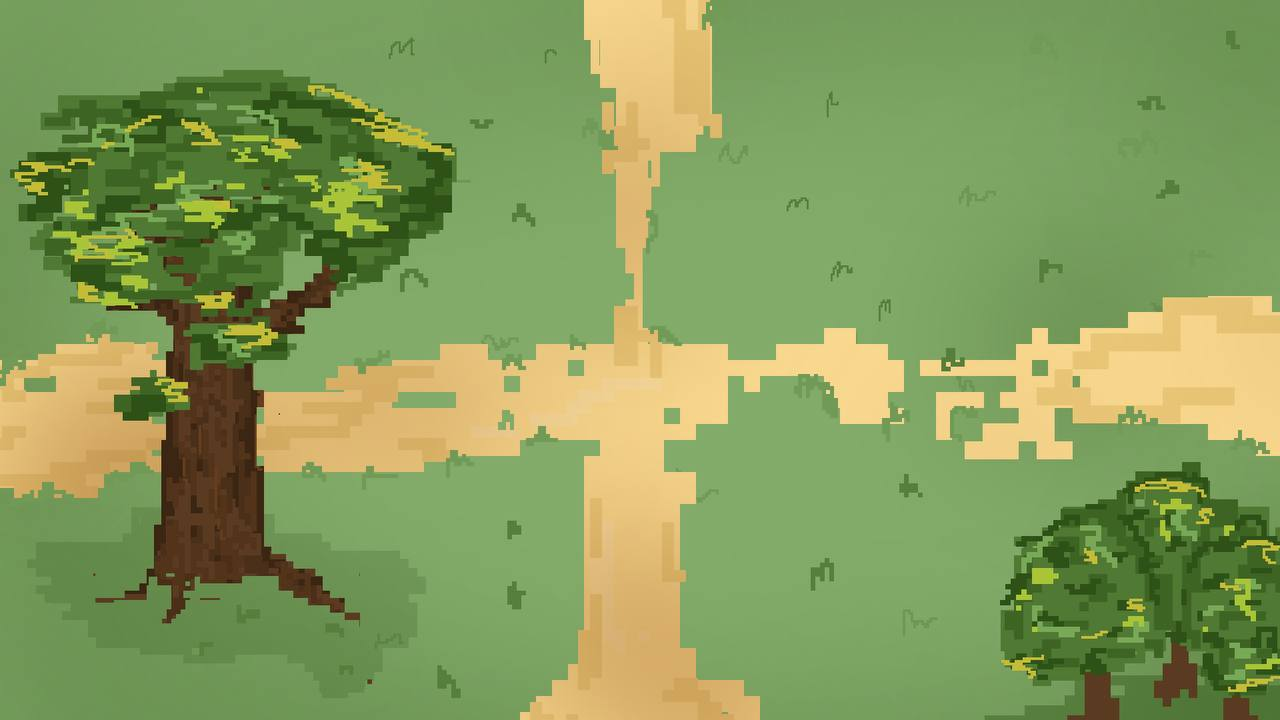
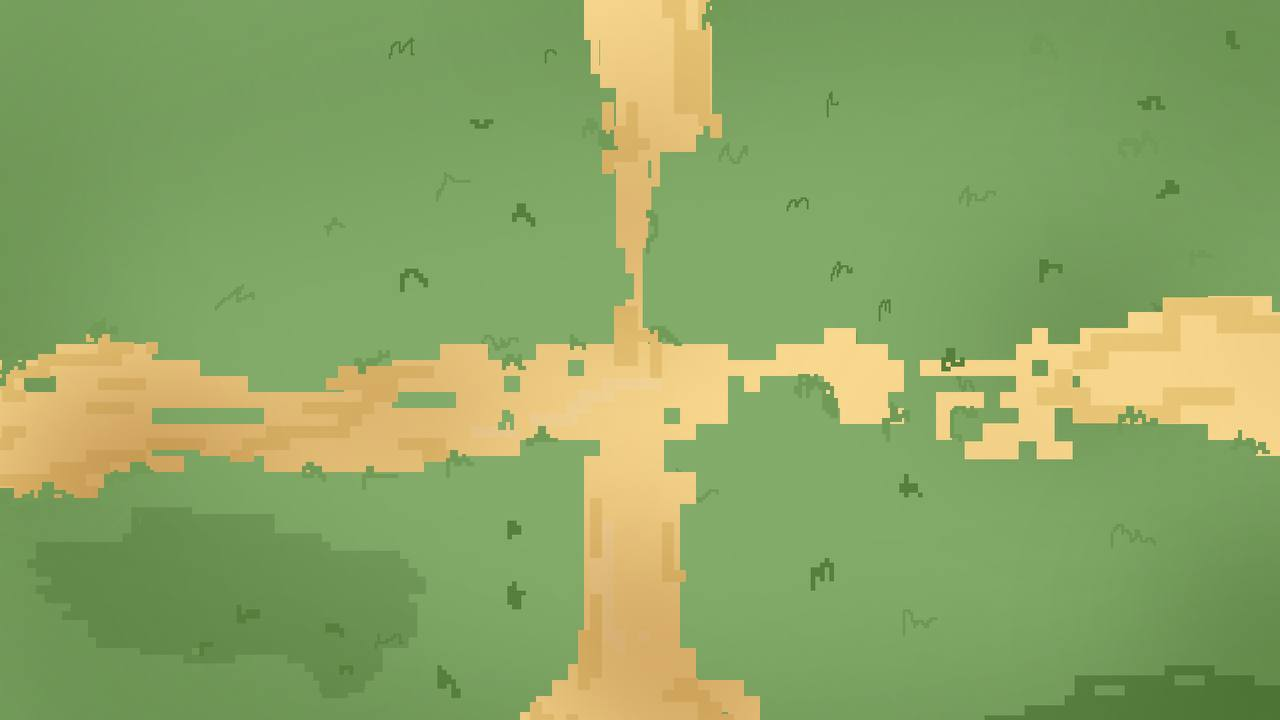
Сделал выключения таймера движения зомби в hotSettings

Changed region(s): [[0.0, 0.0917, 0.375, 0.8556], [0.7812, 0.6417, 1.0, 1.0]]

diff --git a/Menu2/Spawn/GamePlay.xaml b/Menu2/Spawn/GamePlay.xaml
@@ -5,14 +5,15 @@
         xmlns:mc="http://schemas.openxmlformats.org/markup-compatibility/2006"
         xmlns:local="clr-namespace:Menu2"
         mc:Ignorable="d"
-        Title="GamePlay" Height="800" Width="1554">
-    <Viewbox Stretch="Fill">
-        <Canvas x:Name="GameScreen" Focusable="True" KeyUp="KeyboardUp" KeyDown="KeyBoardDown" Height="800" Width="1554">
-            <Canvas.Background>
-                <ImageBrush ImageSource="/Spawn/spawn.jpg"/>
-            </Canvas.Background>
+        Title="GamePlay"  Height="720" Width="1280">
+    <Viewbox Stretch="Fill"  Height="720" Width="1280">
+        <Canvas x:Name="GameScreen" Focusable="True" KeyUp="KeyboardUp" KeyDown="KeyBoardDown"  Height="720" Width="1280" HorizontalAlignment="Stretch" VerticalAlignment="Stretch">
+            <Image Source="/Spawn/images/spawn.jpg" Width ="1280" Height="720"/>
             <Image x:Name="Character" Tag="User" Width="50" Height="50" HorizontalAlignment="Center" VerticalAlignment="Top" Canvas.Left="752" Canvas.Top="375" Stretch="Fill" Source="/Spawn/characterLeft.png"/>
+            <Image Source="/Spawn/borders.PNG" Width="1280" Height="720"/>
+            <Image Source="/Spawn/images/trees.PNG" Width="1280" Height="720"/>
             <Image Height="100" Tag="Collide" Canvas.Left="1086" Canvas.Top="375" Width="100" Source="/Spawn/wall.png" Stretch="Fill"/>
+
         </Canvas>
     </Viewbox>
 </Page>

diff --git a/Menu2/Game.xaml b/Menu2/Game.xaml
@@ -5,6 +5,7 @@
         xmlns:mc="http://schemas.openxmlformats.org/markup-compatibility/2006"
         xmlns:local="clr-namespace:Menu2"
         mc:Ignorable="d"
-        Title="Game" Height="800" Width="1554" WindowStyle="None" WindowState="Maximized">
-    <Frame Name="MainFrame" Background="White" NavigationUIVisibility="Hidden" KeyDown="KeyDownK"/>
+        Title="Game" Height="720" Width="1280" WindowStyle="None" WindowState="Maximized">
+    <Frame Name="MainFrame" NavigationUIVisibility="Hidden" Background="Black">
+    </Frame>
 </Window>

diff --git a/Menu2/Classes/Collisia1.cs b/Menu2/Classes/Collisia1.cs
@@ -19,58 +19,58 @@ namespace Menu2
         public List<UIElement> elementsCopy;
         public mob mobe;
 
-        public Collisia(Canvas canvas, Image object1, Player player, mob mobe = null, List<UIElement> elementsCopy = null) //конструктор
+        public Collisia(Canvas canvas, Image object1, Player player, mob mobe = null) //конструктор
         {
             //Конструктор присваиваем все переменные
             this.object1 = object1; 
             this.player = player;
             this.canvas = canvas;
-            this.elementsCopy = elementsCopy;
             this.mobe = mobe;
         }
-        public void Collide(string Dir) // Сам метод коллизии
+        public void Collide(string Dir)
         {
-            foreach (UIElement x in elementsCopy) //Проверяем КАЖДЫЙ ректангле, в списке AllCollisia
+            foreach (UIElement x in elementsCopy)
             {
+                //КОЛЛИЗИЯ
                 if (x is Image imagex && (string)imagex.Tag == "Collide") //Если у ректангле тег Коллизии, то 
                 {
                     Rect PlayerHB = new Rect(Canvas.GetLeft(object1), Canvas.GetTop(object1), object1.Width, object1.Height);//создаем хитбокс объекта (персонажа) 
-                    Rect ToCollide = new Rect(Canvas.GetLeft(imagex), Canvas.GetTop(imagex), imagex.RenderSize.Width, imagex.RenderSize.Height);//Создаем хитбокс коллизии, т.е. нашего ректа
+                    Rect ToCollide = new Rect(Canvas.GetLeft(imagex), Canvas.GetTop(imagex), imagex.Width, imagex.Height);//Создаем хитбокс коллизии, т.е. нашего ректа
 
                     if (PlayerHB.IntersectsWith(ToCollide))//Проверяем пересекаются ли хитбоксы объекта (персонажа) с нашей коллизией
                     {
-                        if (Dir == "x")//Если мы передали, что передвинулись по кординате х, то
+                        if (Dir == "x")
                         {
-                            Canvas.SetLeft(object1, Canvas.GetLeft(object1) - player.SpeedX); //Тут мы его передвигаем обратно по кординате х
-                            player.SpeedX = 0;  //Обнуление переменных _SpeedX и _SpeedY в методе Collide происходит для того, чтобы предотвратить дальнейшее движение
-                                                 //объекта в направлении, в котором была обнаружена коллизия. Если вы не обнулите эти переменные, то объект продолжит
-                                                 //двигаться в направлении, в котором была обнаружена коллизия, что может привести к нежелательным последствиям .
+                            Canvas.SetLeft(object1, Canvas.GetLeft(object1) - player.SpeedX); //Тут мы его передвигаем обратно на х
+                            player.SpeedX = 0;
                         }
-                        else ////Если мы передали, что передвинулись по кординате у , то
+                        else
                         {
-                            Canvas.SetTop(object1, Canvas.GetTop(object1) + player.SpeedY);//Тут мы его передвигаем обратно по кординате у
+                            Canvas.SetTop(object1, Canvas.GetTop(object1) + player.SpeedY);//Тут мы его передвигаем обратно по  у
                             player.SpeedY = 0;
                         }
                     }
                 }
-                if (x is Image imagey && (string)imagey.Tag == "ammo") //Если у ректангле тег Коллизии, то 
+                //СБОР ПАТРОН
+                if (x is Image imagey && (string)imagey.Tag == "ammo")
                 {
-                    Rect PlayerHB = new Rect(Canvas.GetLeft(object1), Canvas.GetTop(object1), object1.Width, object1.Height);//создаем хитбокс объекта (персонажа) 
-                    Rect ToCollide = new Rect(Canvas.GetLeft(imagey), Canvas.GetTop(imagey), imagey.Width, imagey.Height);//Создаем хитбокс коллизии, т.е. нашего ректа
+                    Rect PlayerHB = new Rect(Canvas.GetLeft(object1), Canvas.GetTop(object1), object1.Width, object1.Height);
+                    Rect ToCollide = new Rect(Canvas.GetLeft(imagey), Canvas.GetTop(imagey), imagey.Width, imagey.Height);
 
-                    if (PlayerHB.IntersectsWith(ToCollide))//Проверяем пересекаются ли хитбоксы объекта (персонажа) с нашей коллизией
+                    if (PlayerHB.IntersectsWith(ToCollide))
                     {
                         canvas.Children.Remove(imagey);
                         imagey.Source = null;
                         Player.ammo += 5;
-                       
+
                     }
                 }
+                //ИИ ГРИВЕРОВ
                 if (x is Image imageG && (string)imageG.Tag == "griver")
                 {
                     Rect PlayerHB = new Rect(Canvas.GetLeft(object1), Canvas.GetTop(object1), object1.Width, object1.Height);//создаем хитбокс объекта (персонажа) 
                     Rect GriverHB = new Rect(Canvas.GetLeft(imageG), Canvas.GetTop(imageG), imageG.Width, imageG.Height);
-                    if(PlayerHB.IntersectsWith(GriverHB))
+                    if (PlayerHB.IntersectsWith(GriverHB))
                     {
                         player.Health -= 1;
                     }
@@ -94,6 +94,7 @@ namespace Menu2
                         Canvas.SetLeft(x, Canvas.GetLeft(x) - mob.zombieSpeed);
                         ((Image)x).Source = new BitmapImage(new Uri("zLeft.png", UriKind.RelativeOrAbsolute));
                     }
+
                 }
                 foreach (UIElement j in elementsCopy)
                 {
@@ -103,8 +104,10 @@ namespace Menu2
                         Rect zomb2 = new Rect(Canvas.GetLeft(zomb), Canvas.GetTop(zomb), zomb.Width, zomb.Height);
                         if (bul2.IntersectsWith(zomb2))
                         {
-                            canvas.Children.Remove(x); //удаляем зомби
-                            canvas.Children.Remove(j); //удаляем пулю
+                            canvas.Children.Remove(zomb); //удаляем зомби
+                            zomb.Source = null;
+                            canvas.Children.Remove(bul); ; //удаляем пулю
+                            mobe.griverList.Remove(zomb);
                             mobe.makeGrivers();
                         }
                     }

diff --git a/Menu2/Spawn/GamePlay.xaml.cs b/Menu2/Spawn/GamePlay.xaml.cs
@@ -22,10 +22,10 @@ namespace Menu2
 {
     public partial class GamePlay : Page
     {
-        private DispatcherTimer GameTimer = new DispatcherTimer();
-        private float SpeedX, SpeedY;
+        public DispatcherTimer GameTimer = new DispatcherTimer();
         Player player;
         Collisia collisia;
+        hotSettings hotset;
         public GamePlay()
         {
             InitializeComponent();
@@ -36,11 +36,12 @@ namespace Menu2
             GameTimer.Interval = TimeSpan.FromMilliseconds(1);
             GameTimer.Tick += GameTick;
             GameTimer.Start();
+            hotset = new hotSettings(GameTimer);
         }
         private void GameTick(object sender, EventArgs e)
         {
             collisia.elementsCopy = GameScreen.Children.Cast<UIElement>().ToList(); //обновляем список элементов, которые есть на канвасе
-            if ((Canvas.GetLeft(Character) < 0) || (Canvas.GetTop(Character) < 0))
+            if ((Canvas.GetLeft(Character) < 0) || (Canvas.GetTop(Character) < 0) || (Canvas.GetLeft(Character) > GameScreen.Width) || (Canvas.GetTop(Character) > GameScreen.Height))
             {
                 GameTimer.Stop();
                 NavigationService.Navigate(new Maze1());
@@ -54,6 +55,16 @@ namespace Menu2
         private void KeyBoardDown(object sender, KeyEventArgs e)
         {
             player.KeyBoardDown(sender, e);
+            if (e.Key == Key.Escape)
+            {
+                player.UpKeyPressed = false;
+                player.DownKeyPressed = false;
+                player.LeftKeyPressed = false;
+                player.RightKeyPressed = false;
+                player.UpKeyPressed = false;
+                hotset.Visibility = Visibility.Visible;
+                GameTimer.Stop();
+            }
         }
     }
 }

diff --git a/Menu2/Maze/Maze1.xaml.cs b/Menu2/Maze/Maze1.xaml.cs
@@ -24,13 +24,14 @@ namespace Menu2
 {
     public partial class Maze1 : Page
     {
-        private DispatcherTimer GameTimer = new DispatcherTimer();
+        public DispatcherTimer GameTimer = new DispatcherTimer();
         Player player2;
         Collisia collisia;
         bool gameOver;
         List<Image> griverList = new List<Image>();
         mob mobe;
         Random rnd = new Random();
+        hotSettings hotset;
         public Maze1()
         {
             InitializeComponent();
@@ -38,14 +39,13 @@ namespace Menu2
             collisia = new Collisia(GameScreen, Character, player2);
             player2 = new Player(GameScreen, Character, collisia);
             collisia.player = player2;
-            mobe = new mob(griverList, GameScreen, Character, player2);
+            mobe = new mob(griverList, GameScreen);
             collisia.mobe = mobe;
             RestartGame();
             GameTimer.Interval = TimeSpan.FromMilliseconds(1);
             GameTimer.Tick += GameTick;
             GameTimer.Start();
-
-
+            hotset = new hotSettings(GameTimer);
         }
         private void GameTick(object sender, EventArgs e)
         {
@@ -97,6 +97,15 @@ namespace Menu2
                 return;
             }
             player2.KeyBoardDown(sender, e);
+            if (e.Key == Key.Escape)
+            {
+                player2.UpKeyPressed = false;
+                player2.DownKeyPressed = false;
+                player2.LeftKeyPressed = false;
+                player2.RightKeyPressed = false;
+                hotset.Visibility = Visibility.Visible;
+                GameTimer.Stop();
+            }
         }
         public void RestartGame()
         {

diff --git a/Menu2/Classes/Mob.cs b/Menu2/Classes/Mob.cs
@@ -14,25 +14,21 @@ namespace Menu2.Classes
     internal class mob
     {
         Random rand = new Random();
-        List<Image> griverList;
+        public List<Image> griverList;
         Canvas canvas = new Canvas();
-        Image character;
-        Player player;
         public static int zombieSpeed = 1;
-        public mob(List<Image> griverList, Canvas canvas, Image character, Player player)
+        public mob(List<Image> griverList, Canvas canvas)
         {
             this.griverList = griverList;
             this.canvas = canvas;
-            this.character = character;
-            this.player = player;
         }
         public void makeGrivers()
         {
             Image griver = new Image();
             griver.Tag = "griver";
             griver.Source = new BitmapImage(new Uri("zombie.png", UriKind.Relative));
-            Canvas.SetLeft(griver, rand.Next(50, Convert.ToInt32(canvas.Width - 50)));
-            Canvas.SetTop(griver, rand.Next(50, Convert.ToInt32(canvas.Height - 50)));
+            Canvas.SetLeft(griver, rand.Next(50, Convert.ToInt32(canvas.Width/3 - 50)));
+            Canvas.SetTop(griver, rand.Next(50, Convert.ToInt32(canvas.Height/3 - 50)));
             griver.Height = 50;
             griver.Width = 50;
             griverList.Add(griver);

diff --git a/Menu2/Menu/hotSettings.xaml.cs b/Menu2/Menu/hotSettings.xaml.cs
@@ -11,6 +11,7 @@ using System.Windows.Input;
 using System.Windows.Media;
 using System.Windows.Media.Imaging;
 using System.Windows.Shapes;
+using System.Windows.Threading;
 
 namespace Menu2
 {
@@ -19,8 +20,10 @@ namespace Menu2
     /// </summary>
     public partial class hotSettings : Window
     {
-        public hotSettings()
+        DispatcherTimer timer;
+        public hotSettings(DispatcherTimer timer)
         {
+            this.timer = timer;
             InitializeComponent();
         }
 
@@ -31,7 +34,8 @@ namespace Menu2
 
         private void btResume_Click(object sender, RoutedEventArgs e)
         {
-            this.Close();
+            timer.Start();
+            this.Visibility = Visibility.Collapsed;
         }
     }
 }

diff --git a/Menu2/Game.xaml.cs b/Menu2/Game.xaml.cs
@@ -14,23 +14,12 @@ using System.Windows.Shapes;
 
 namespace Menu2
 {
-    /// <summary>
-    /// Логика взаимодействия для Game.xaml
-    /// </summary>
     public partial class Game : Window
     {
         public Game()
         {
             InitializeComponent();
             MainFrame.Content = new GamePlay();
-        }
-        private void KeyDownK(object sender, KeyEventArgs e)
-        {
-            if (e.Key == Key.Escape)
-            {
-                hotSettings window = new hotSettings();
-                window.Show();
-            }
         }
     }
 }

diff --git a/Menu2/Classes/Player.cs b/Menu2/Classes/Player.cs
@@ -22,7 +22,6 @@ namespace Menu2
         public static string facing = "up";
         private Canvas canvas;
         public static int ammo = 10;
-        public Bullet bullet;
         public Collisia collisia;
         public int Health = 100;
         public Player(Canvas canvas, Image Character, Collisia collisia, float SpeedY = 0, float SpeedX = 0, bool UpKeyPressed = false, bool DownKeyPressed = false, bool LeftKeyPressed = false, bool RightKeyPressed = false, float Friction = 0.77f, float Speed = 2f)

diff --git a/Menu2/Classes/Bullet.cs b/Menu2/Classes/Bullet.cs
@@ -21,7 +21,7 @@ namespace Menu2.Classes
         public double bulletTop;
         private int speed = 20;
         private Image bullet = new Image();
-        private DispatcherTimer bulletTimer = new DispatcherTimer();
+        public DispatcherTimer bulletTimer = new DispatcherTimer();
         private Random rnd = new Random();
         private Image character;
         public Bullet(Canvas canvas, Image character)
